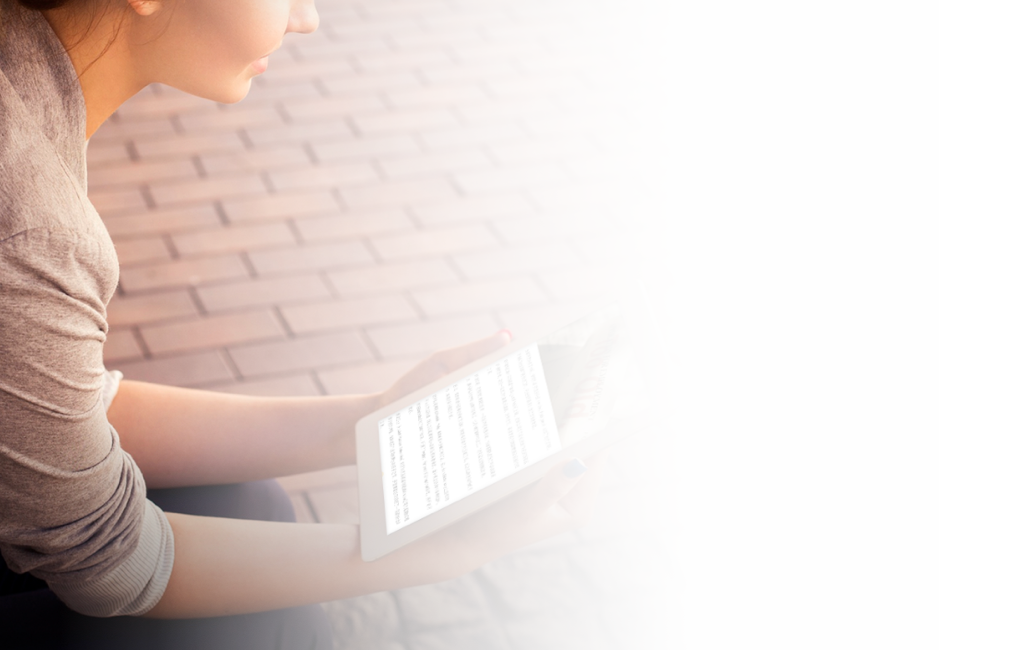
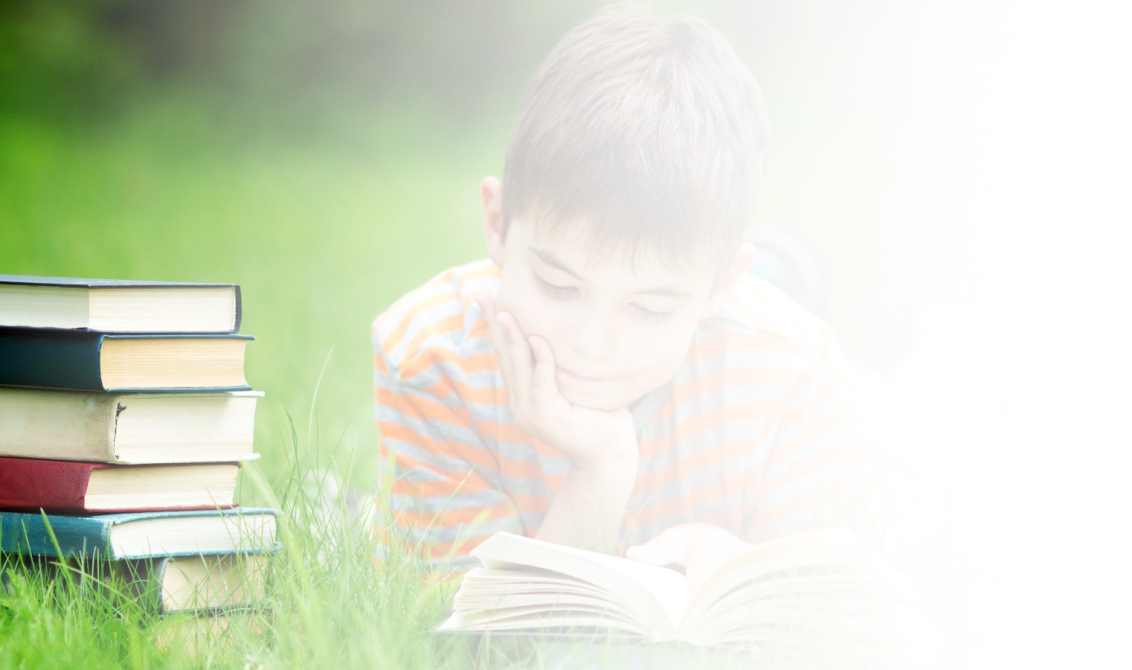
Minor fixes
Update login.png

diff --git a/src/main/webapp/css/auth.css b/src/main/webapp/css/auth.css
@@ -68,8 +68,8 @@ main{
 
 .container{
 	margin: 0px auto;
-	margin-top: calc((100vh - 60vh)/2);
-	height: 60vh;
+	margin-top: calc((100vh - 77vh)/2);
+	height: 77vh;
 	width: 66vw;
 	box-shadow: 4px 4px 20px rgba(0,0,0,.5);
 	background-image: url("../images/login.png");
@@ -93,7 +93,7 @@ main{
 	position: relative;
 	top: 0;
 	float: right;
-	padding: 6em 5em;
+	padding: 2em 3em;
 	font-weight: 300;
 	text-align: right;
 }

diff --git a/README.md b/README.md
@@ -1,4 +1,7 @@
 # StudentInfoManagement
+
 一个学生信息管理系统
-HTML + CSS + BOOTSTRAP + jQuery
+
+HTML + CSS + BOOTSTRAP + jQuery + AJAX
+
 Tomcat 9 + JSP Servlet
